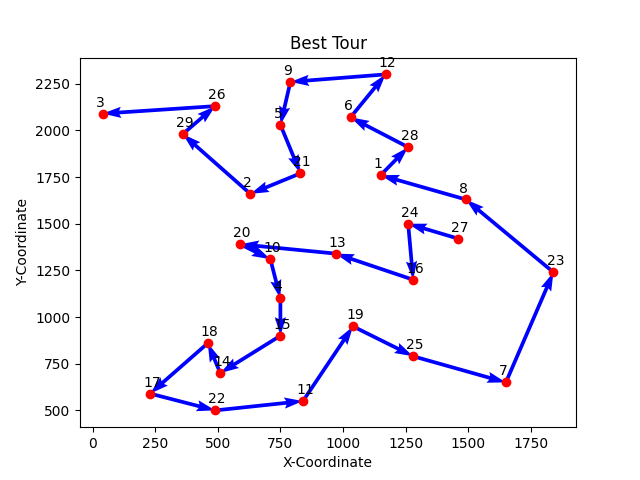
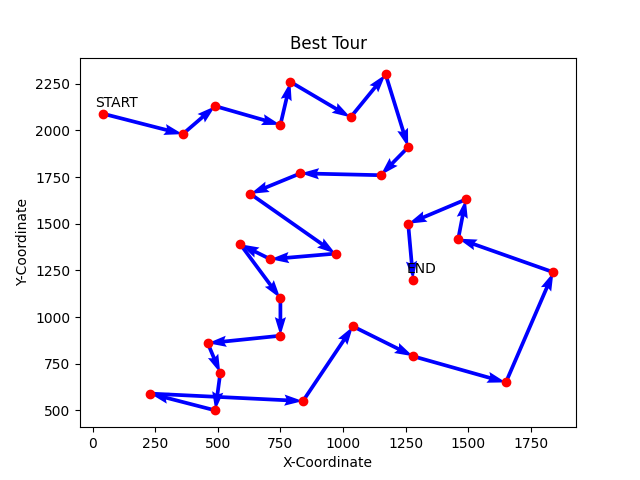
label change, readme added

diff --git a/main.py b/main.py
@@ -8,7 +8,6 @@ import numpy as np
 # todo: report
 # todo: graphs
 # todo: max_iterations change
-# todo: something with quiver arrows
 # todo: create README.md
 
 
@@ -153,8 +152,12 @@ def print_output(tour, cost, iteration):
 
     plt.scatter(x, y, color='r')
     for i in range(len(x)):
-        city_num = tour[i] + 1
-        plt.annotate(city_num, (x[i], y[i]), ha='left', textcoords="offset points", xytext=(-5, 5))
+        label = ''
+        if i == 0:
+            label = 'START'
+        elif i == len(x) - 1:
+            label = 'END'
+        plt.annotate(label, (x[i], y[i]), ha='left', textcoords="offset points", xytext=(-5, -10))
 
     plt.xlabel('X-Coordinate')
     plt.ylabel('Y-Coordinate')
@@ -164,10 +167,6 @@ def print_output(tour, cost, iteration):
 
     print('')
     print('Tour Map saved as best_tour.png')
-
-    print('')
-    print(coordinates)
-    print(tour)
 
 
 if __name__ == '__main__':

diff --git a/README.md b/README.md
@@ -1,0 +1,1 @@
+Ant Colony Optimization Algorithm for Bays29
